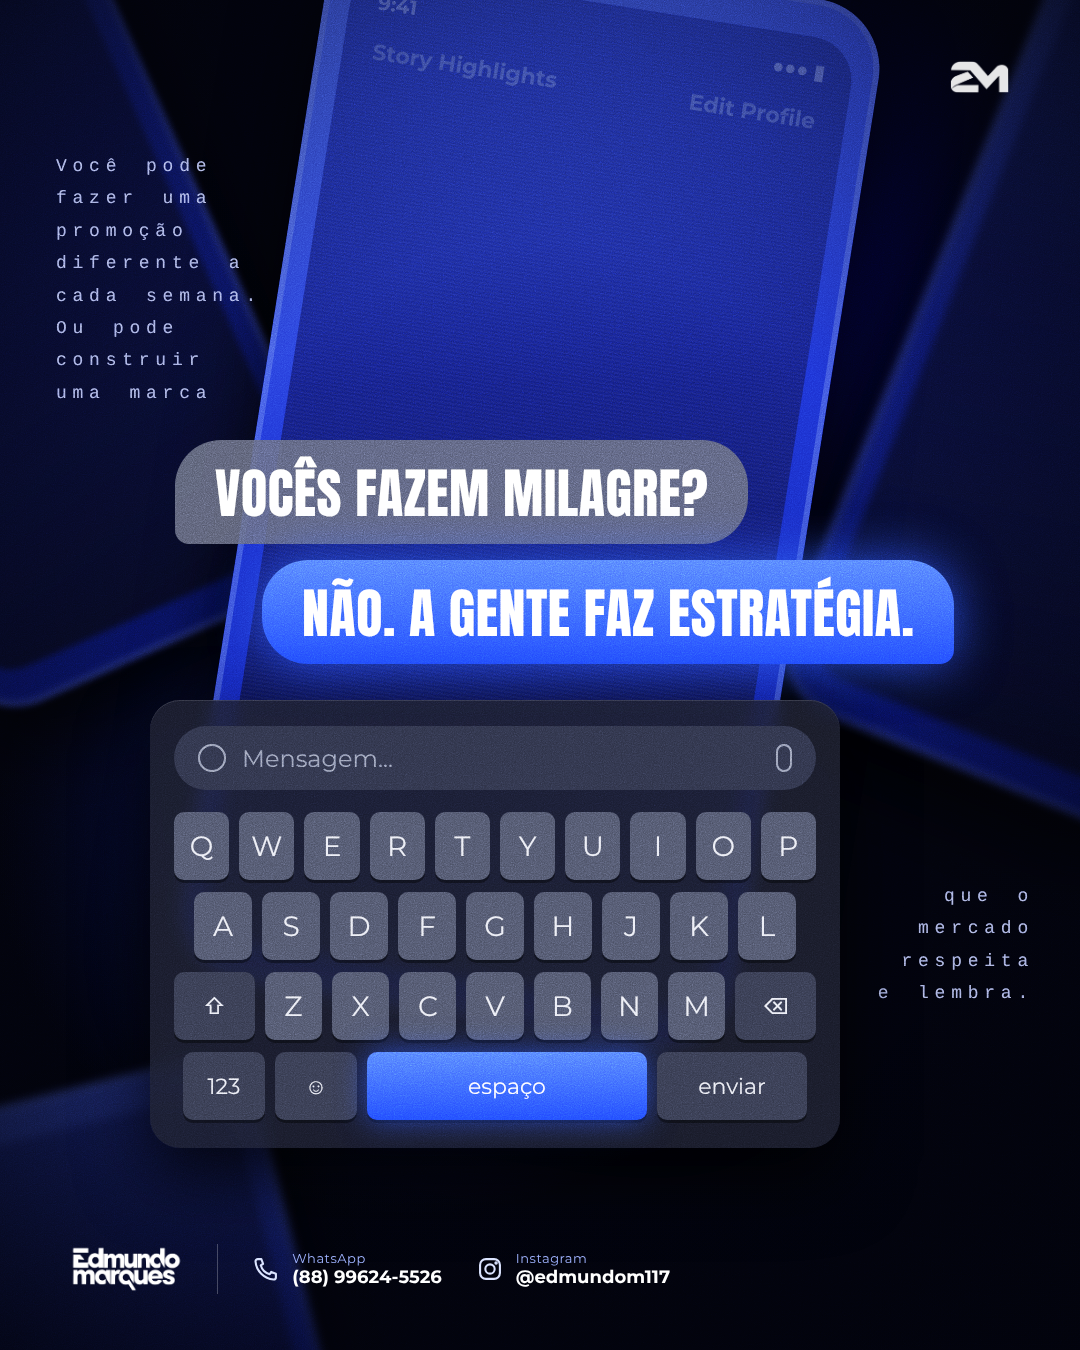
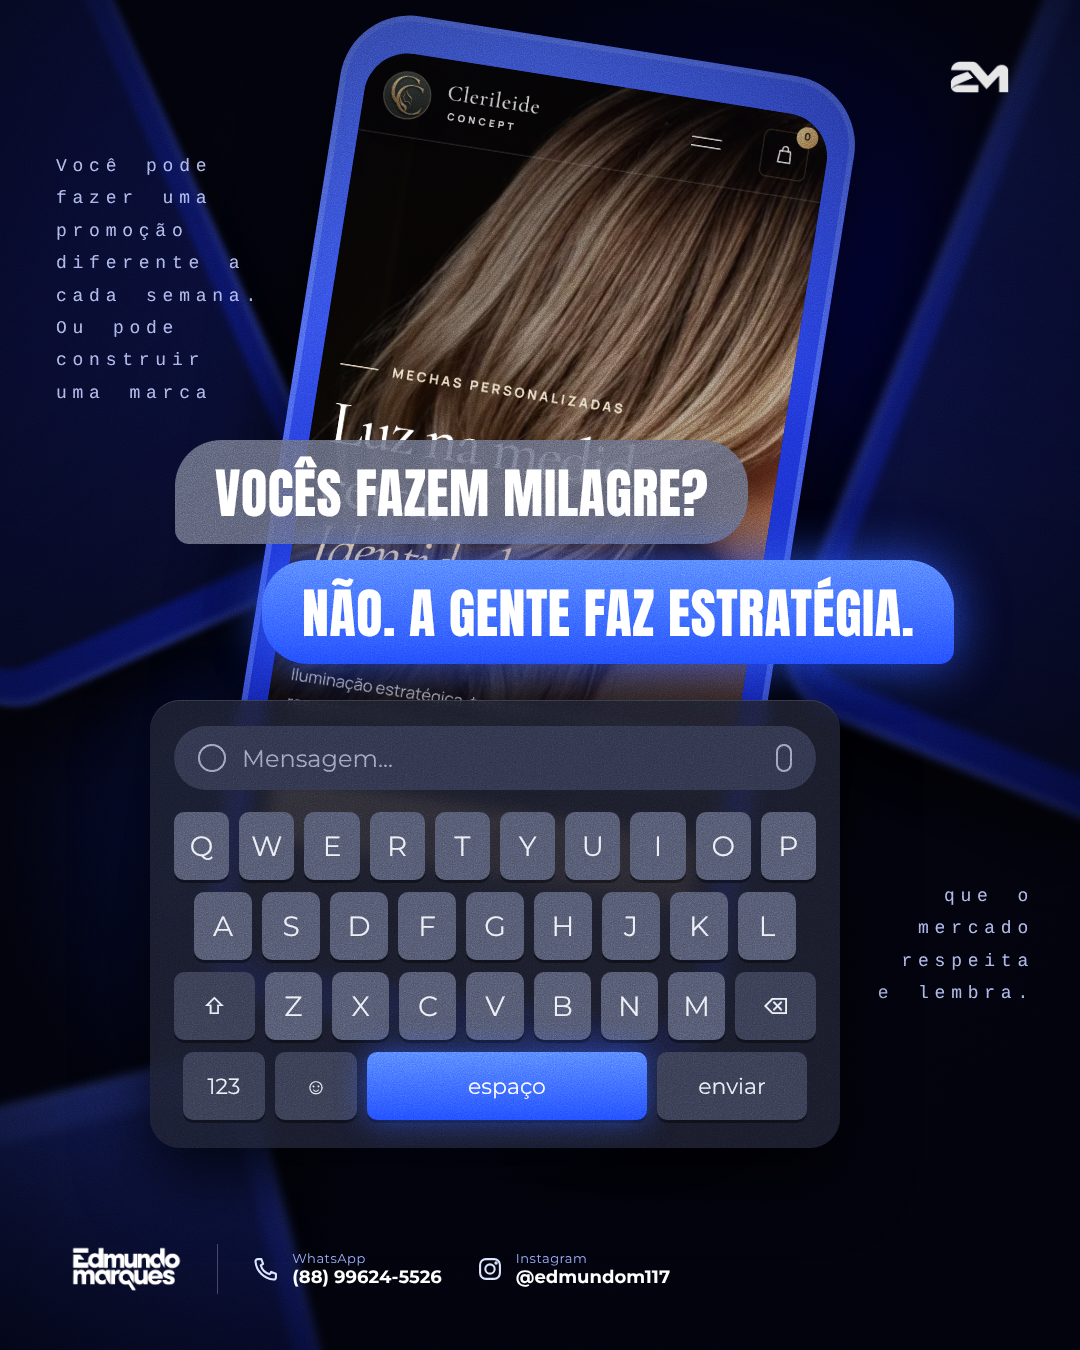
Coloca o site da Clerileide Concept na tela do celular do post
Claude-Session: https://claude.ai/code/session_011ixy7renb3izevRWvSjSQM

Changed region(s): [[0.1833, 0.0, 0.825, 0.5289]]

diff --git a/instagram/post-milagre/post.html b/instagram/post-milagre/post.html
@@ -18,11 +18,13 @@ body{background:#111}
 .phone .screen::before{content:'';position:absolute;inset:0;background:repeating-linear-gradient(0deg,#ffffff06 0 2px,transparent 2px 4px)}
 .phone .bar{position:absolute;left:28px;right:28px;top:22px;display:flex;justify-content:space-between;font-size:20px;color:#8fa4ff99;font-weight:700}
 .phone .lbl{position:absolute;top:70px;left:30px;right:30px;display:flex;justify-content:space-between;font-size:22px;color:#8fa4ff66;font-weight:700}
-.p1{width:560px;height:1060px;left:250px;top:-40px;transform:rotate(9deg)}
+.p1{width:520px;height:1000px;left:270px;top:40px;transform:rotate(9deg)}
 .p2{width:420px;height:840px;left:-210px;top:-160px;transform:rotate(-24deg);filter:blur(3px) brightness(.6)}
 .p3{width:420px;height:860px;right:-250px;top:-60px;transform:rotate(22deg);filter:blur(4px) brightness(.55)}
 .p4{width:480px;height:900px;left:-120px;bottom:-640px;transform:rotate(-14deg);filter:blur(5px) brightness(.5)}
 
+.phone .screen.site img{width:100%;height:100%;object-fit:cover;object-position:top;display:block}
+.phone .screen.site::before{z-index:1;background:linear-gradient(180deg,transparent 55%,#02030c99)}
 /* mao estilizada / vinheta */
 .shade{position:absolute;inset:0;background:radial-gradient(ellipse 85% 75% at 50% 48%,transparent 40%,#01020a 100%)}
 
@@ -73,7 +75,7 @@ body{background:#111}
   <div class="phone p2"><div class="screen"></div></div>
   <div class="phone p3"><div class="screen"></div></div>
   <div class="phone p4"><div class="screen"></div></div>
-  <div class="phone p1"><div class="screen"><div class="bar"><span>9:41</span><span>●●● ▮</span></div><div class="lbl"><span>Story Highlights</span><span>Edit Profile</span></div></div></div>
+  <div class="phone p1"><div class="screen site"><img src="clerileide-mobile.png" alt=""></div></div>
   <div class="shade"></div>
 
   <div class="side s-left">Você pode fazer uma promoção diferente a cada semana. Ou pode construir uma marca</div>
